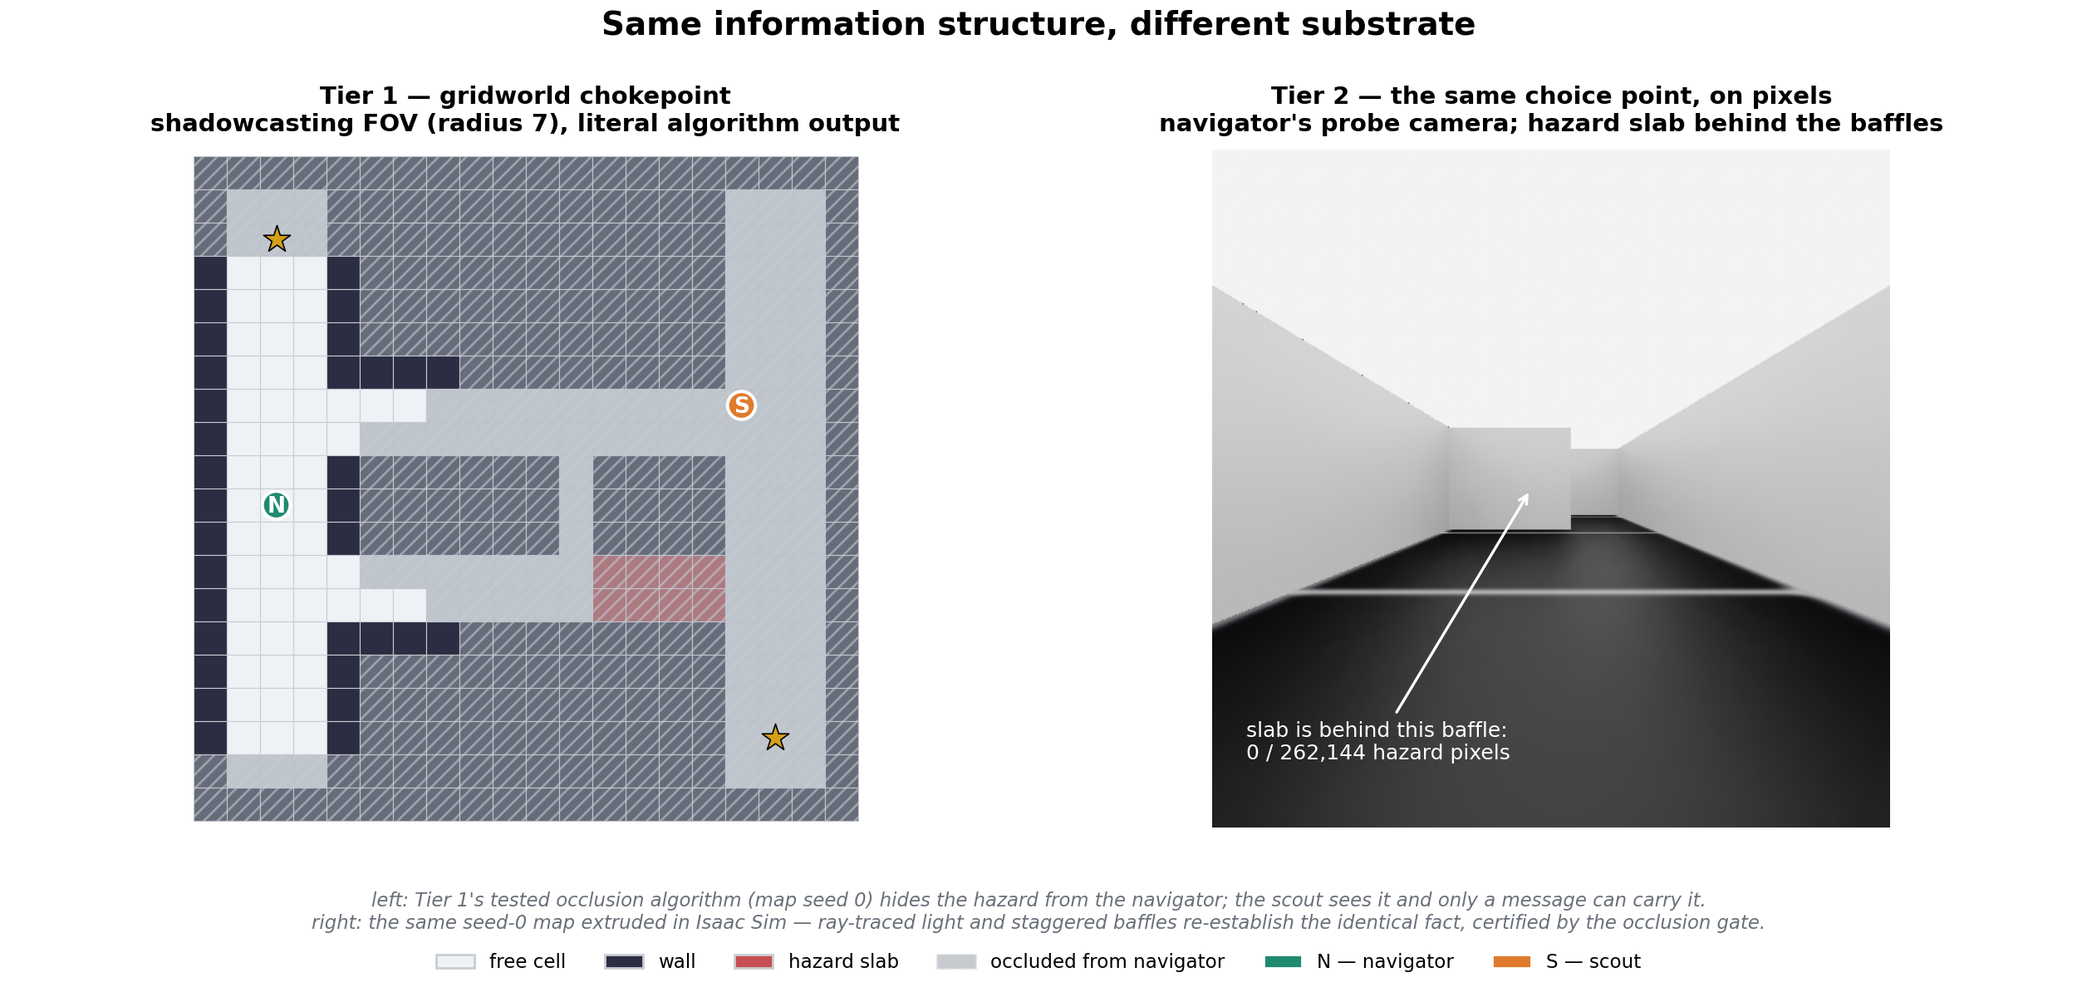
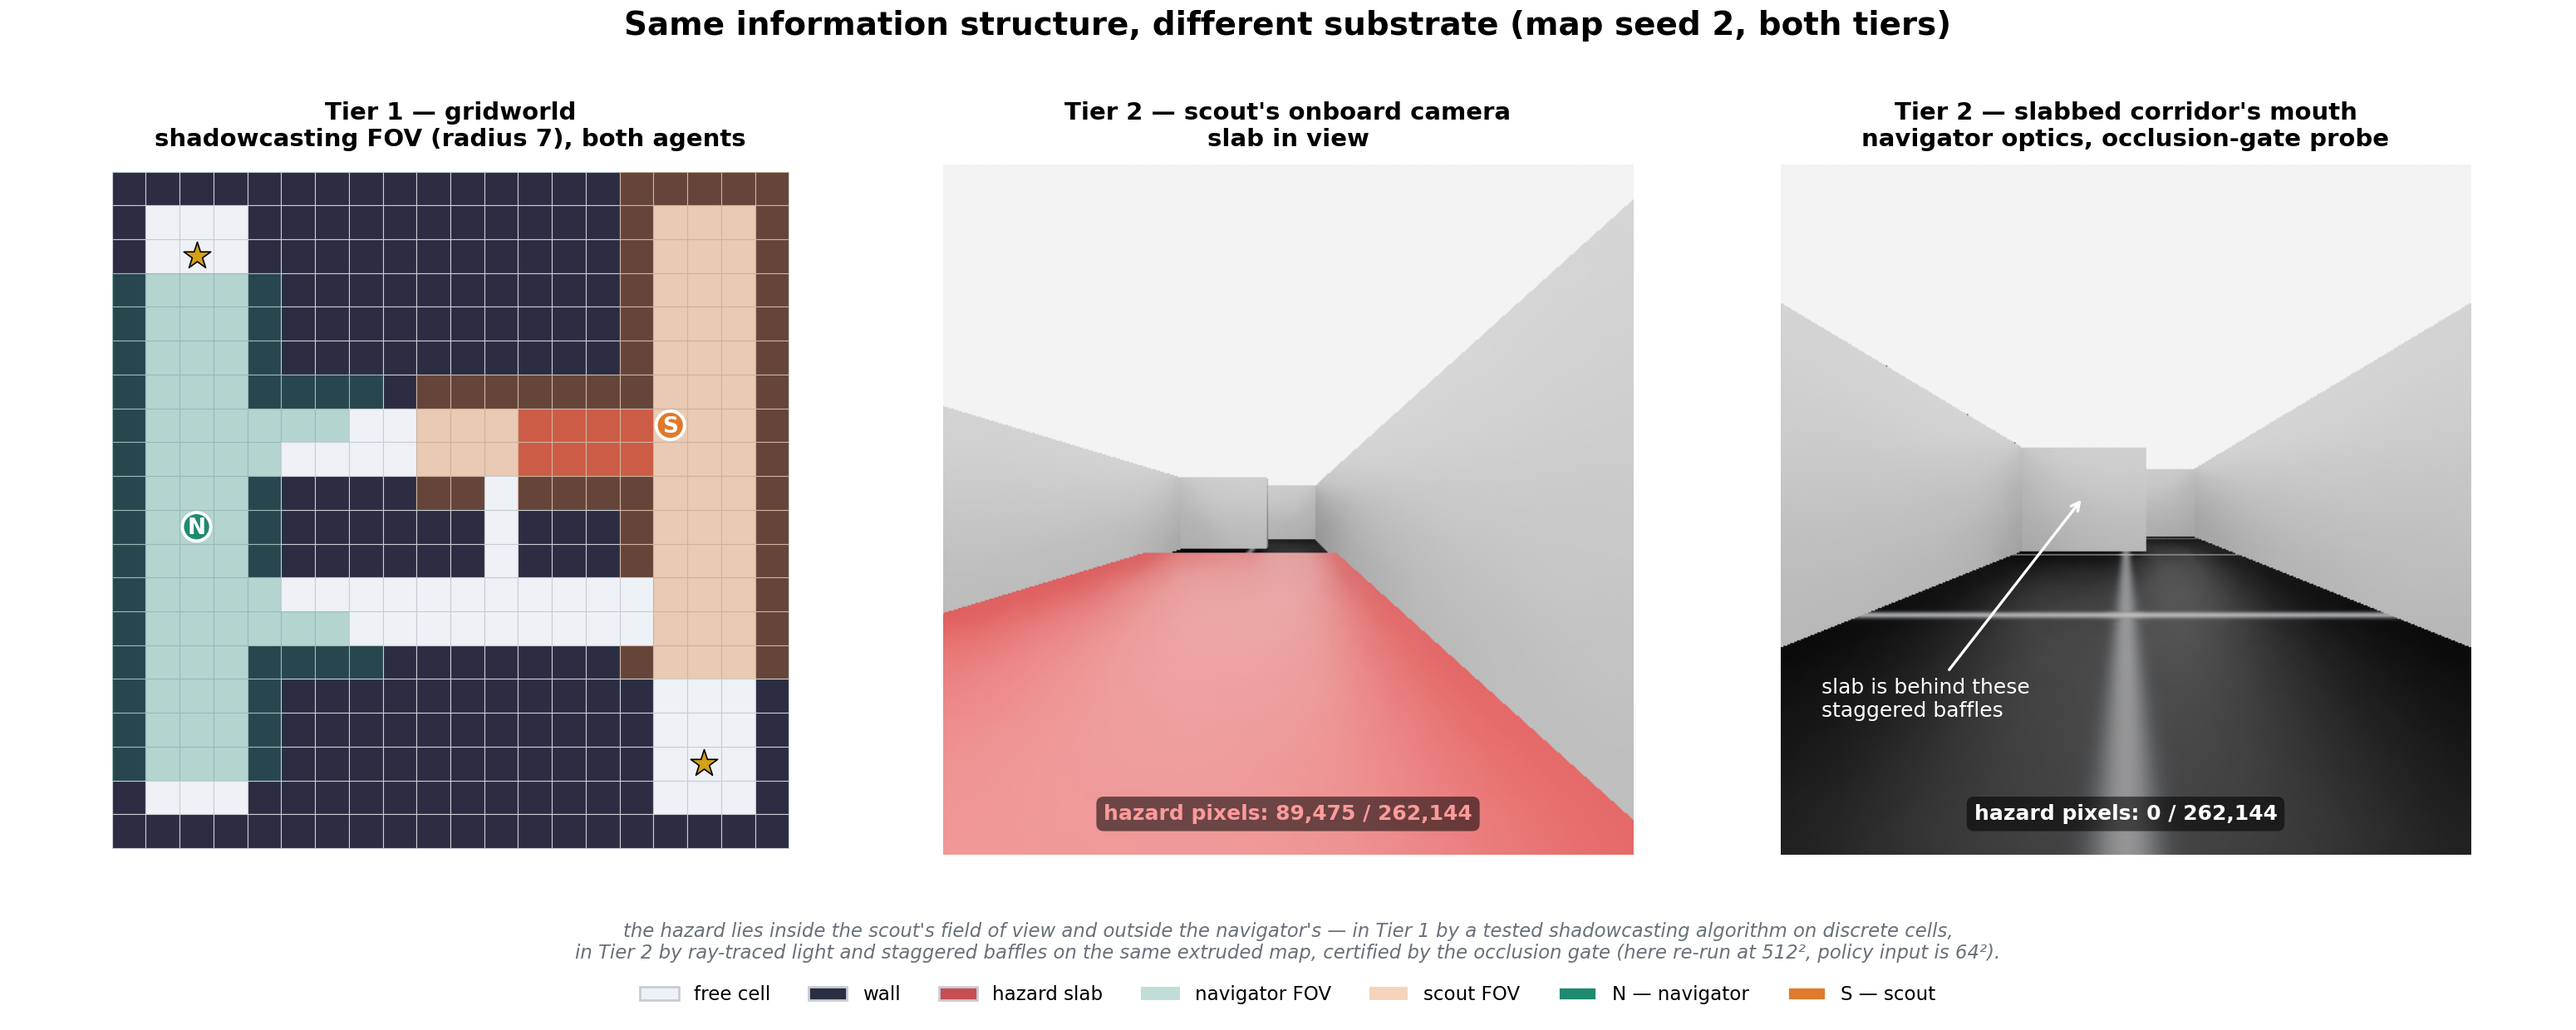
Fix(figures): Figure 1 was drawn in a configuration where nobody saw the hazard
Seed 0 puts the slab in the bottom corridor while the scout watches the top
one — neither agent saw it, contradicting the caption. Redrawn at seed 2 (the
thesis configuration): slab in the scout's corridor, both agents' shadowcasting
FOV shaded, plus the matching Tier 2 gate renders — scout camera with 89,475
hazard px and the slabbed-mouth probe with 0. Probe vantage relabeled honestly
(gate camera with navigator optics, not the navigator itself). Occlusion gate
re-passed at 512^2 for seed 2.

diff --git a/rl/plot_fig1.py b/rl/plot_fig1.py
@@ -1,15 +1,17 @@
 """Figure 1 — Tier 1 vs Tier 2: same information structure, different substrate.
 
 Left panel: the Tier 1 gridworld chokepoint (literal generate_chokepoint_map
-output) with the navigator's REAL shadowcasting visibility (envs/fov
-compute_visible, radius 7) — occluded cells hatched exactly as in Tier 1's
-Figure 6b, hazard sitting inside the occluded region.
+output, seed 2 = the slab-in-scout's-corridor configuration) with BOTH agents'
+real shadowcasting visibility (envs/fov compute_visible, radius 7) as tinted
+shading. The hazard sits inside the scout's FOV and outside the navigator's —
+the asymmetry the message has to bridge.
 
-Right panel: the Tier 2 scene from the navigator's corridor-choice vantage,
-rendered by the occlusion-gate probe camera at 512x512 (the training input is
-the same camera at 64x64). The hazard slab is metres ahead behind the
-staggered baffles: 0 hazard pixels of 262,144 — the same fact as the left
-panel's hatching, established by a renderer instead of an algorithm.
+Middle/right panels: the same seed-2 map extruded in Isaac Sim, seen through
+the occlusion-gate cameras rendered at 512x512 (the policy input is the same
+optics at 64x64). Middle: the scout's camera — the slab fills a third of the
+frame (89,475/262,144 hazard pixels). Right: the probe camera at the slabbed
+corridor's mouth, same height and optics as the navigator's onboard camera —
+the staggered baffles hide the slab completely (0/262,144 hazard pixels).
 
     python rl/plot_fig1.py --out plots/fig1_substrate.png
 """
@@ -39,7 +41,6 @@ from envs.map_generator import generate_chokepoint_map  # noqa: E402
 WALL_C = "#2b2d42"
 FLOOR_C = "#eef1f5"
 GRID_LINE = "#c9cdd3"
-OCCLUDED_C = "#9aa1ab"
 EGO_C = "#1f8a70"
 MATE_C = "#e07a2c"
 GOAL_C = "#d4a017"
@@ -52,7 +53,8 @@ def draw_tier1(ax, seed: int):
     spec = generate_chokepoint_map(np.random.default_rng(seed))
     grid = spec.grid
     nav, scout = spec.agent_starts
-    visible = compute_visible(grid, nav, FOV_RADIUS)
+    vis_nav = compute_visible(grid, nav, FOV_RADIUS)
+    vis_scout = compute_visible(grid, scout, FOV_RADIUS)
     h, w = grid.shape
 
     for r in range(h):
@@ -63,11 +65,16 @@ def draw_tier1(ax, seed: int):
                 (c, h - 1 - r), 1, 1, facecolor=base,
                 edgecolor=GRID_LINE, linewidth=0.4, zorder=1,
             ))
-            if not visible[r, c]:
+            # FOV-radius shading: each agent's literal shadowcasting output
+            if vis_nav[r, c]:
                 ax.add_patch(mpatches.Rectangle(
-                    (c, h - 1 - r), 1, 1, facecolor=OCCLUDED_C,
-                    edgecolor=GRID_LINE, linewidth=0.4, alpha=0.55,
-                    hatch="////", zorder=2,
+                    (c, h - 1 - r), 1, 1, facecolor=EGO_C,
+                    edgecolor="none", alpha=0.28, zorder=2,
+                ))
+            if vis_scout[r, c]:
+                ax.add_patch(mpatches.Rectangle(
+                    (c, h - 1 - r), 1, 1, facecolor=MATE_C,
+                    edgecolor="none", alpha=0.32, zorder=2,
                 ))
 
     for (r, c) in spec.goals:
@@ -84,55 +91,70 @@ def draw_tier1(ax, seed: int):
     ax.set_ylim(-0.2, h + 0.2)
     ax.set_aspect("equal")
     ax.axis("off")
-    ax.set_title("Tier 1 — gridworld chokepoint\nshadowcasting FOV (radius 7), literal algorithm output",
+    ax.set_title("Tier 1 — gridworld\nshadowcasting FOV (radius 7), both agents",
                  fontsize=10.5, fontweight="bold", pad=8)
 
 
-def draw_tier2(ax, frame_path: str):
+def draw_frame(ax, frame_path: str, title: str, note: str, note_color: str):
     img = plt.imread(frame_path)
     ax.imshow(img)
     ax.axis("off")
-    ax.set_title("Tier 2 — the same choice point, on pixels\nnavigator's probe camera; hazard slab behind the baffles",
-                 fontsize=10.5, fontweight="bold", pad=8)
-    ax.annotate("slab is behind this baffle:\n0 / 262,144 hazard pixels",
-                xy=(0.47, 0.50), xycoords="axes fraction",
-                xytext=(0.05, 0.10), textcoords="axes fraction",
-                fontsize=9, color="white",
-                arrowprops=dict(arrowstyle="->", color="white", lw=1.2))
+    ax.set_title(title, fontsize=10.5, fontweight="bold", pad=8)
+    ax.text(0.5, 0.045, note, transform=ax.transAxes, ha="center", va="bottom",
+            fontsize=9, fontweight="bold", color=note_color,
+            bbox=dict(facecolor="black", alpha=0.55, edgecolor="none",
+                      boxstyle="round,pad=0.35"))
 
 
 def main():
     ap = argparse.ArgumentParser()
-    ap.add_argument("--seed", type=int, default=0)
-    ap.add_argument("--frame", type=str,
-                    default="spike/out/hires/occl_navigator_mouth_bottom_rgb.png")
+    ap.add_argument("--seed", type=int, default=2,
+                    help="map seed; 2 = slab in the scout's corridor")
+    ap.add_argument("--scout_frame", type=str,
+                    default="spike/out/hires/occl_scout_rgb_s2.png")
+    ap.add_argument("--mouth_frame", type=str,
+                    default="spike/out/hires/occl_navigator_mouth_top_rgb_s2.png")
     ap.add_argument("--out", type=str, default="plots/fig1_substrate.png")
     args = ap.parse_args()
 
-    fig, axes = plt.subplots(1, 2, figsize=(12.5, 6.0))
+    fig, axes = plt.subplots(1, 3, figsize=(15.5, 6.2))
     draw_tier1(axes[0], args.seed)
-    draw_tier2(axes[1], args.frame)
+    draw_frame(
+        axes[1], args.scout_frame,
+        "Tier 2 — scout's onboard camera\nslab in view",
+        "hazard pixels: 89,475 / 262,144", "#ff9a9a",
+    )
+    draw_frame(
+        axes[2], args.mouth_frame,
+        "Tier 2 — slabbed corridor's mouth\nnavigator optics, occlusion-gate probe",
+        "hazard pixels: 0 / 262,144", "white",
+    )
+    axes[2].annotate("slab is behind these\nstaggered baffles",
+                     xy=(0.44, 0.52), xycoords="axes fraction",
+                     xytext=(0.06, 0.20), textcoords="axes fraction",
+                     fontsize=9, color="white",
+                     arrowprops=dict(arrowstyle="->", color="white", lw=1.2))
 
     legend_handles = [
         mpatches.Patch(facecolor=FLOOR_C, edgecolor=GRID_LINE, label="free cell"),
         mpatches.Patch(facecolor=WALL_C, edgecolor=GRID_LINE, label="wall"),
         mpatches.Patch(facecolor=HAZARD_C, edgecolor=GRID_LINE, label="hazard slab"),
-        mpatches.Patch(facecolor=OCCLUDED_C, edgecolor=GRID_LINE, alpha=0.55,
-                       hatch="////", label="occluded from navigator"),
+        mpatches.Patch(facecolor=EGO_C, alpha=0.28, label="navigator FOV"),
+        mpatches.Patch(facecolor=MATE_C, alpha=0.32, label="scout FOV"),
         mpatches.Circle((0, 0), radius=0.3, facecolor=EGO_C, edgecolor="white",
                         label="N — navigator"),
         mpatches.Circle((0, 0), radius=0.3, facecolor=MATE_C, edgecolor="white",
                         label="S — scout"),
     ]
-    fig.suptitle("Same information structure, different substrate",
+    fig.suptitle("Same information structure, different substrate (map seed 2, both tiers)",
                  fontsize=14, fontweight="bold", y=0.99)
     fig.text(0.5, 0.085,
-             "left: Tier 1's tested occlusion algorithm (map seed 0) hides the hazard from the navigator; the scout sees it and only a message can carry it.\n"
-             "right: the same seed-0 map extruded in Isaac Sim — ray-traced light and staggered baffles re-establish the identical fact, certified by the occlusion gate.",
+             "the hazard lies inside the scout's field of view and outside the navigator's — in Tier 1 by a tested shadowcasting algorithm on discrete cells,\n"
+             "in Tier 2 by ray-traced light and staggered baffles on the same extruded map, certified by the occlusion gate (here re-run at 512², policy input is 64²).",
              ha="center", va="center", fontsize=8.2, color=NOTE_GRAY, style="italic")
-    fig.legend(handles=legend_handles, loc="lower center", ncol=6, frameon=False,
+    fig.legend(handles=legend_handles, loc="lower center", ncol=7, frameon=False,
                fontsize=8.3, bbox_to_anchor=(0.5, 0.008))
-    fig.subplots_adjust(left=0.02, right=0.98, top=0.85, bottom=0.17, wspace=0.06)
+    fig.subplots_adjust(left=0.02, right=0.98, top=0.84, bottom=0.17, wspace=0.05)
     Path(args.out).parent.mkdir(parents=True, exist_ok=True)
     fig.savefig(args.out, dpi=200, facecolor="white")
     print(f"wrote {args.out}")

diff --git a/plots/README.md b/plots/README.md
@@ -9,7 +9,7 @@ translucent mean bars).
 
 | Figure | Shows | Data |
 |---|---|---|
-| `fig1_substrate.png` | Report Figure 1: Tier 1 gridworld chokepoint with the navigator's literal shadowcasting FOV beside the Tier 2 scene from the navigator's corridor-choice camera (512² occlusion-gate probe render, 0/262,144 hazard pixels). Same seed-0 map on both sides — identical information structure, different substrate. | Tier 1 `envs/` (map + FOV) + `spike/out/hires/occl_navigator_mouth_bottom_rgb.png` |
+| `fig1_substrate.png` | Report Figure 1: the seed-2 chokepoint (slab in the scout's corridor) three ways. Tier 1 grid with BOTH agents' literal shadowcasting FOV — hazard inside the scout's, outside the navigator's; the Tier 2 scout camera with the slab filling a third of the frame (89,475/262,144 hazard px); the probe camera at the slabbed corridor's mouth with the slab fully hidden behind the staggered baffles (0/262,144). Same map all three panels — identical information structure, different substrate. | Tier 1 `envs/` (map + FOV) + `spike/out/hires/*_s2.png` (occlusion gate re-run at 512², seed 2: all gates PASS) |
 
 ## `jepa/` — Phase 2: the frozen encoder (`rl/plot_jepa.py`)
 

diff --git a/docs/tier2_report.md b/docs/tier2_report.md
@@ -662,7 +662,7 @@ as a standalone methods contribution.
 
 | # | Figure | Status | Source |
 |---|---|---|---|
-| 1 | Tier 1 vs Tier 2 — same information structure, different substrate | `plots/fig1_substrate.png` | `rl/plot_fig1.py`: Tier 1 map + shadowcasting FOV (seed 0) beside the 512² probe render `spike/out/hires/occl_navigator_mouth_bottom_rgb.png` |
+| 1 | Tier 1 vs Tier 2 — same information structure, different substrate | `plots/fig1_substrate.png` | `rl/plot_fig1.py`: seed-2 map (slab in scout's corridor) with both agents' shadowcasting FOV, beside 512² gate renders — scout camera (89,475 hazard px) and slabbed-mouth probe (0 px), `spike/out/hires/*_s2.png` |
 | 2 | Throughput and the semantic channel | to render | `spike/spike_fps_benchmark.py`, `spike/out/*_e64_r64.png` |
 | 3 | The occlusion gate — 6 panels with pixel counts | frames committed | `spike/out/occl_*.png` |
 | 4 | M7 positive control — m7/m7b/m7c/m7e overlaid | to render | `runs/archive/m7_navsolo/m7*.csv` |
